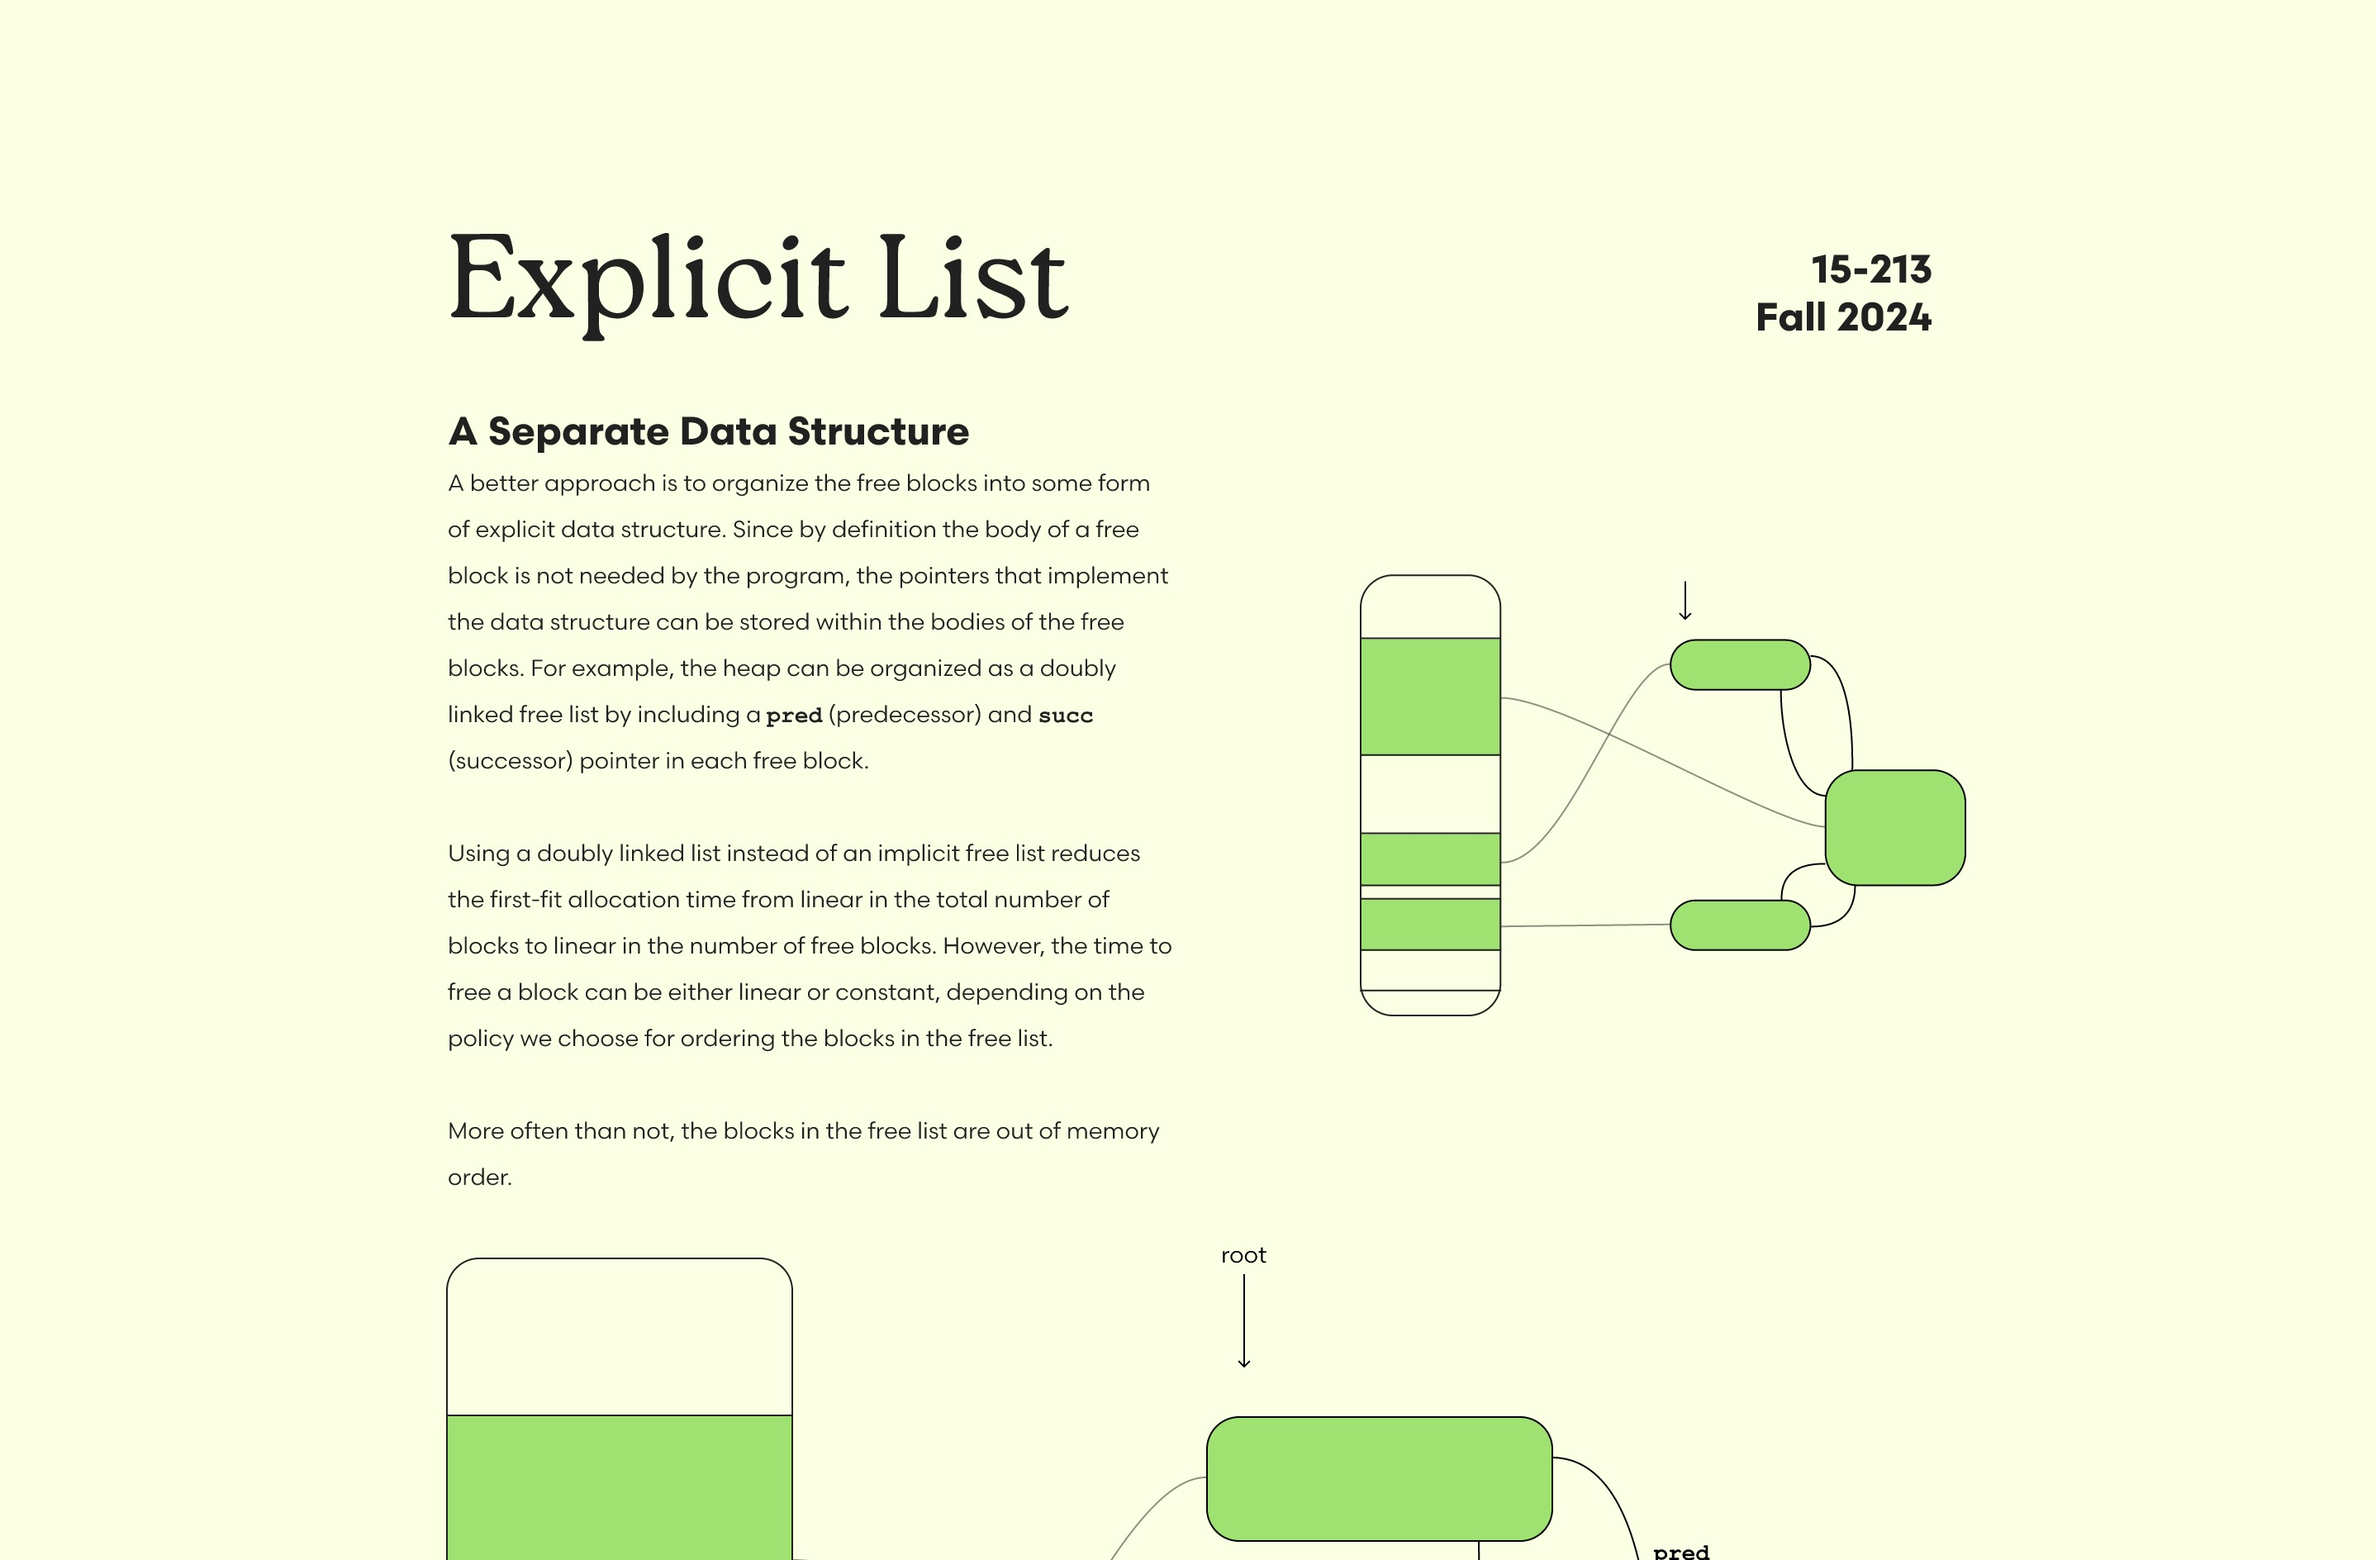
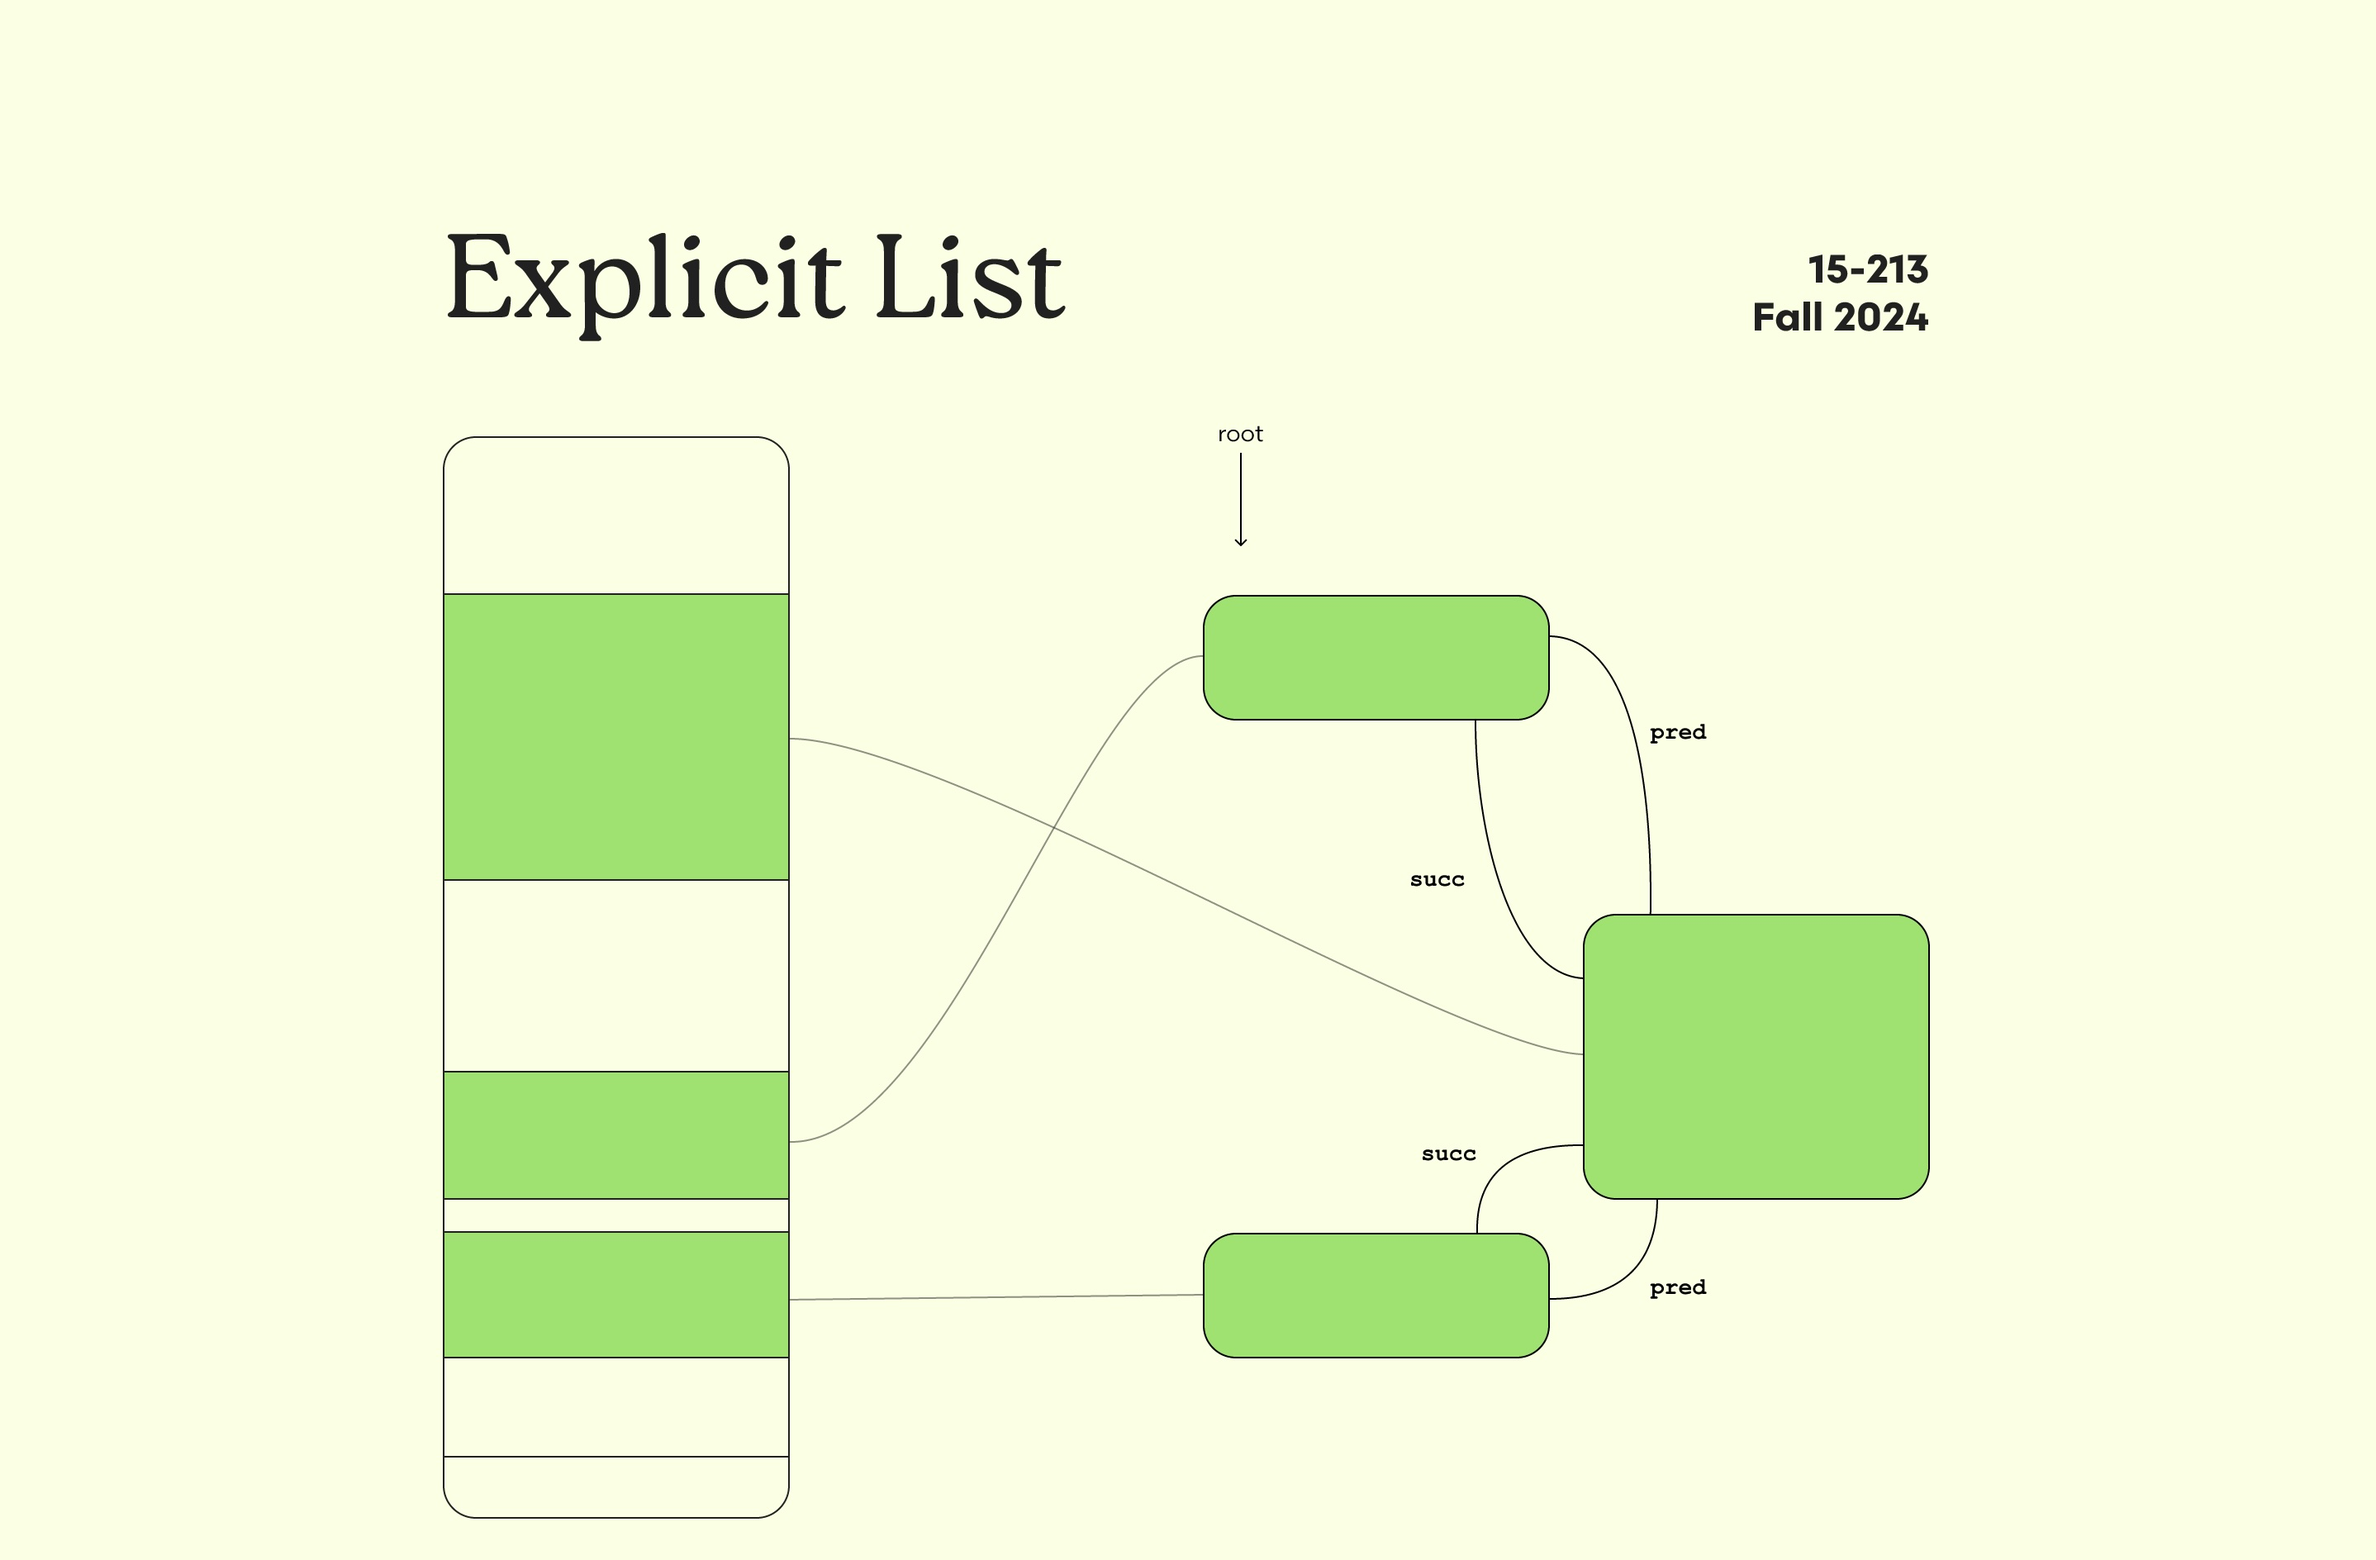
purrr

diff --git a/pages/tech/malloc.html b/pages/tech/malloc.html
@@ -128,6 +128,12 @@
                 </div>
             </div>
 
+            <h2>Block Insertion:</h2>
+
+            <p class = "text">
+                A challenging part of the malloc lab is implementing four kinds of block insertion as well as the edge cases that come with them. To maintain consistency with the explicit list illustration, I used the two separate data structures–the heap and the free list–to demonstrate what is happening at each case.
+            </p>
+
             <div class="reveal">
                 <div class="side_by_side_content">
                     <div class="side_by_side">
